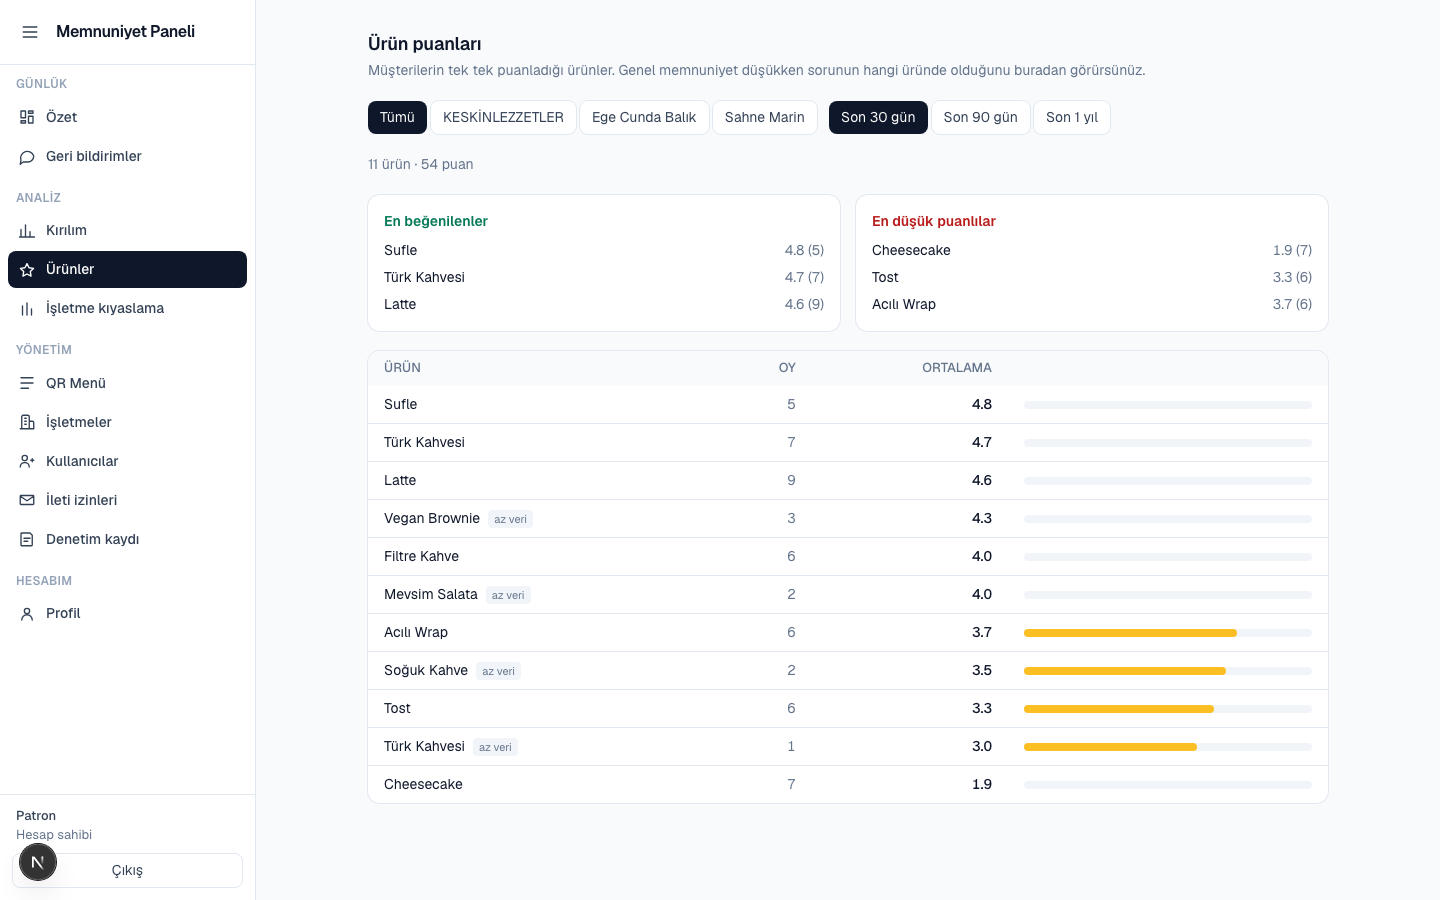
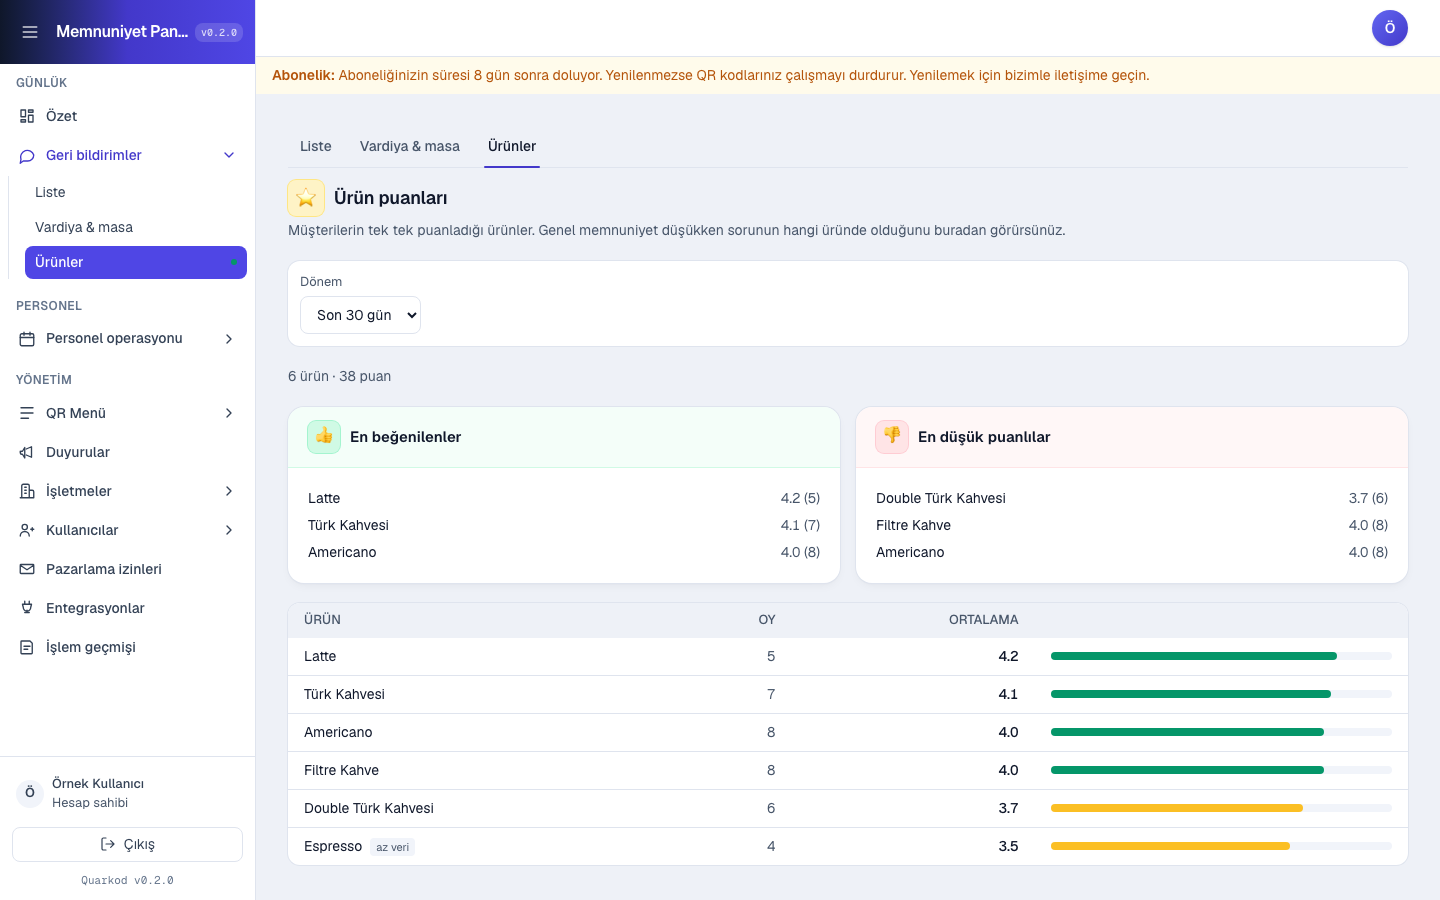
fix: bozuk Google linki, sessiz bildirim hatası ve eksik indeksler
Web sitesindeki pazarlama ekran görüntülerinin 5 tanesi gerçek bir müşterinin
(KESKİNLEZZETLER) canlı hesabından alınmıştı — işletme adı, gerçek şikayet
metni ve tarihler dahil — üstelik hepsi artık kullanılmayan eski panel
tasarımını gösteriyordu.

Doğrudan bahsedilen hata: musteri-menu.png'de Türk kahvesi fotoğrafının
altında "Kayseri Mantısı / Mantı" yazıyordu (yanlış ürüne atanmış fotoğraf).

Yapılanlar:
- Fictional "Vitrin Kafe" adında ayrı bir deneme hesabı açılıp gerçek
  panelden (güncel, renkli tasarım) dört görsel yeniden çekildi:
  admin-dashboard.png, admin-urunler.png, musteri-anket.png, musteri-menu.png
  (artık doğru şekilde "Türk Kahvesi" yazıyor, kendi çizdiğim basit bir
  fincan illüstrasyonuyla).
- Hiçbir gerçek müşteri verisi kalmadı; hiçbir yerde kullanılmayan
  admin-menu.png silindi.
- layout.tsx: openGraph/twitter.images artık sabit eski ekran görüntüsüne
  değil, zaten var olan dinamik opengraph-image.tsx'e düşüyor — Twitter'da
  paylaşılan link eskiden gerçek müşteri verisi gösteriyordu.
- PanelPreview.tsx: kaldırılmış "puan trendi" ve "son geri bildirimler"
  özelliklerine atıfta bulunan eski alt metni güncel ekranla eşleştirildi.

diff --git a/src/app/layout.tsx b/src/app/layout.tsx
@@ -32,6 +32,13 @@ export const metadata: Metadata = {
   description: SITE_ACIKLAMA,
   applicationName: SITE_ADI,
   alternates: { canonical: "/" },
+  // Paylaşım görseli belirtilmiyor: kök dizindeki opengraph-image.tsx
+  // (marka renkleriyle üretilen 1200x630 kart) dosya kuralı gereği hem
+  // OG hem Twitter kartı için otomatik kullanılıyor. Önceden burada
+  // gerçek bir müşterinin adının ve şikayet metninin göründüğü, üstelik
+  // artık kullanılmayan eski panel tasarımını gösteren statik bir ekran
+  // görüntüsü sabitti — biri bu linki Twitter'da paylaşsaydı canlı bir
+  // müşterinin verisini kartta görürdü.
   openGraph: {
     type: "website",
     locale: "tr_TR",
@@ -39,20 +46,11 @@ export const metadata: Metadata = {
     siteName: SITE_ADI,
     title: `${SITE_ADI} — QR ile Müşteri Memnuniyet Sistemi`,
     description: SITE_ACIKLAMA,
-    images: [
-      {
-        url: "/marketing/admin-dashboard.png",
-        width: 1200,
-        height: 630,
-        alt: `${SITE_ADI} yönetim panelinin özet ekranı`,
-      },
-    ],
   },
   twitter: {
     card: "summary_large_image",
     title: `${SITE_ADI} — QR ile Müşteri Memnuniyet Sistemi`,
     description: SITE_ACIKLAMA,
-    images: ["/marketing/admin-dashboard.png"],
   },
   robots: {
     index: true,

diff --git a/src/app/_landing/PanelPreview.tsx b/src/app/_landing/PanelPreview.tsx
@@ -41,7 +41,7 @@ export function PanelPreview() {
         <div className="relative">
           <BrowserFrame
             src="/marketing/admin-dashboard.png"
-            alt="Yönetim panelinin özet ekranı: puan trendi, kategori kırılımı ve son geri bildirimler"
+            alt="Yönetim panelinin özet ekranı: haftalık ortalama, Google dönüşümü ve kategori kırılımı"
             label="Özet"
           />
           <div className="absolute -bottom-8 -left-6 hidden w-[220px] overflow-hidden rounded-card bg-surface shadow-pop ring-1 ring-line md:block">
